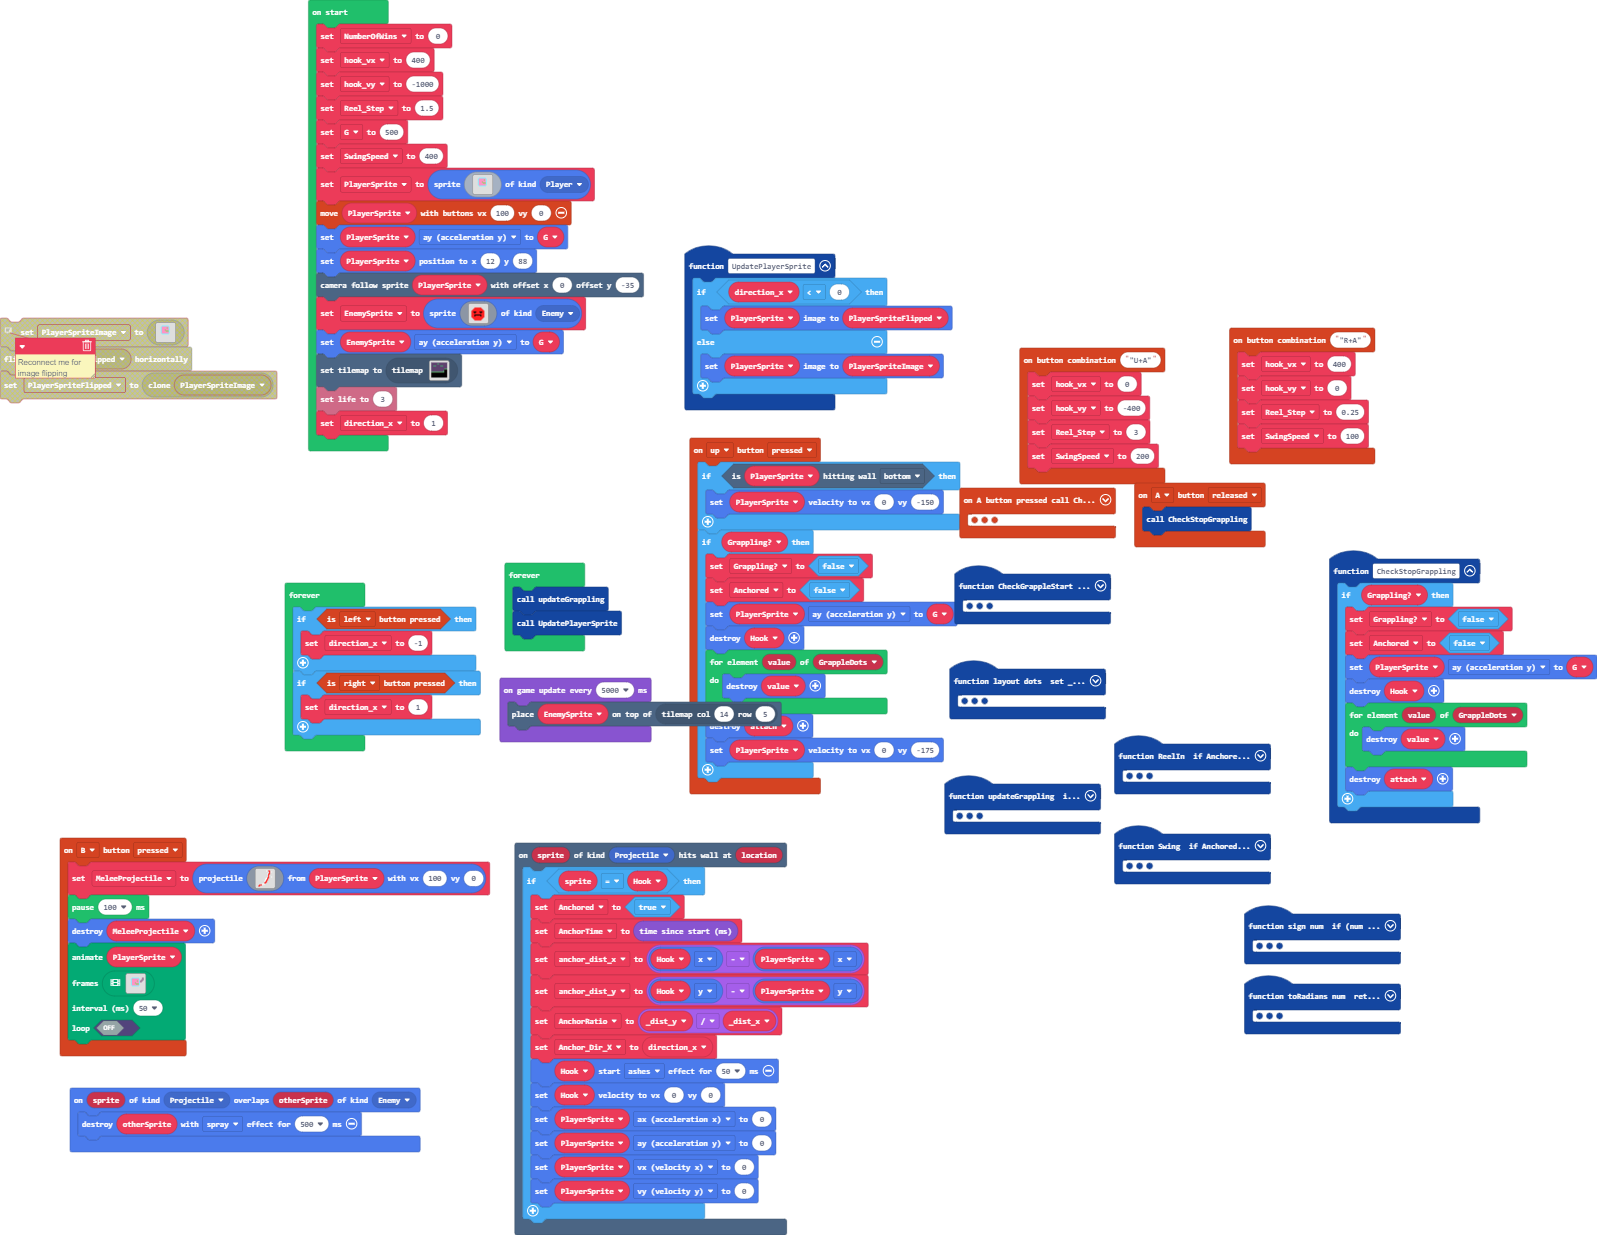
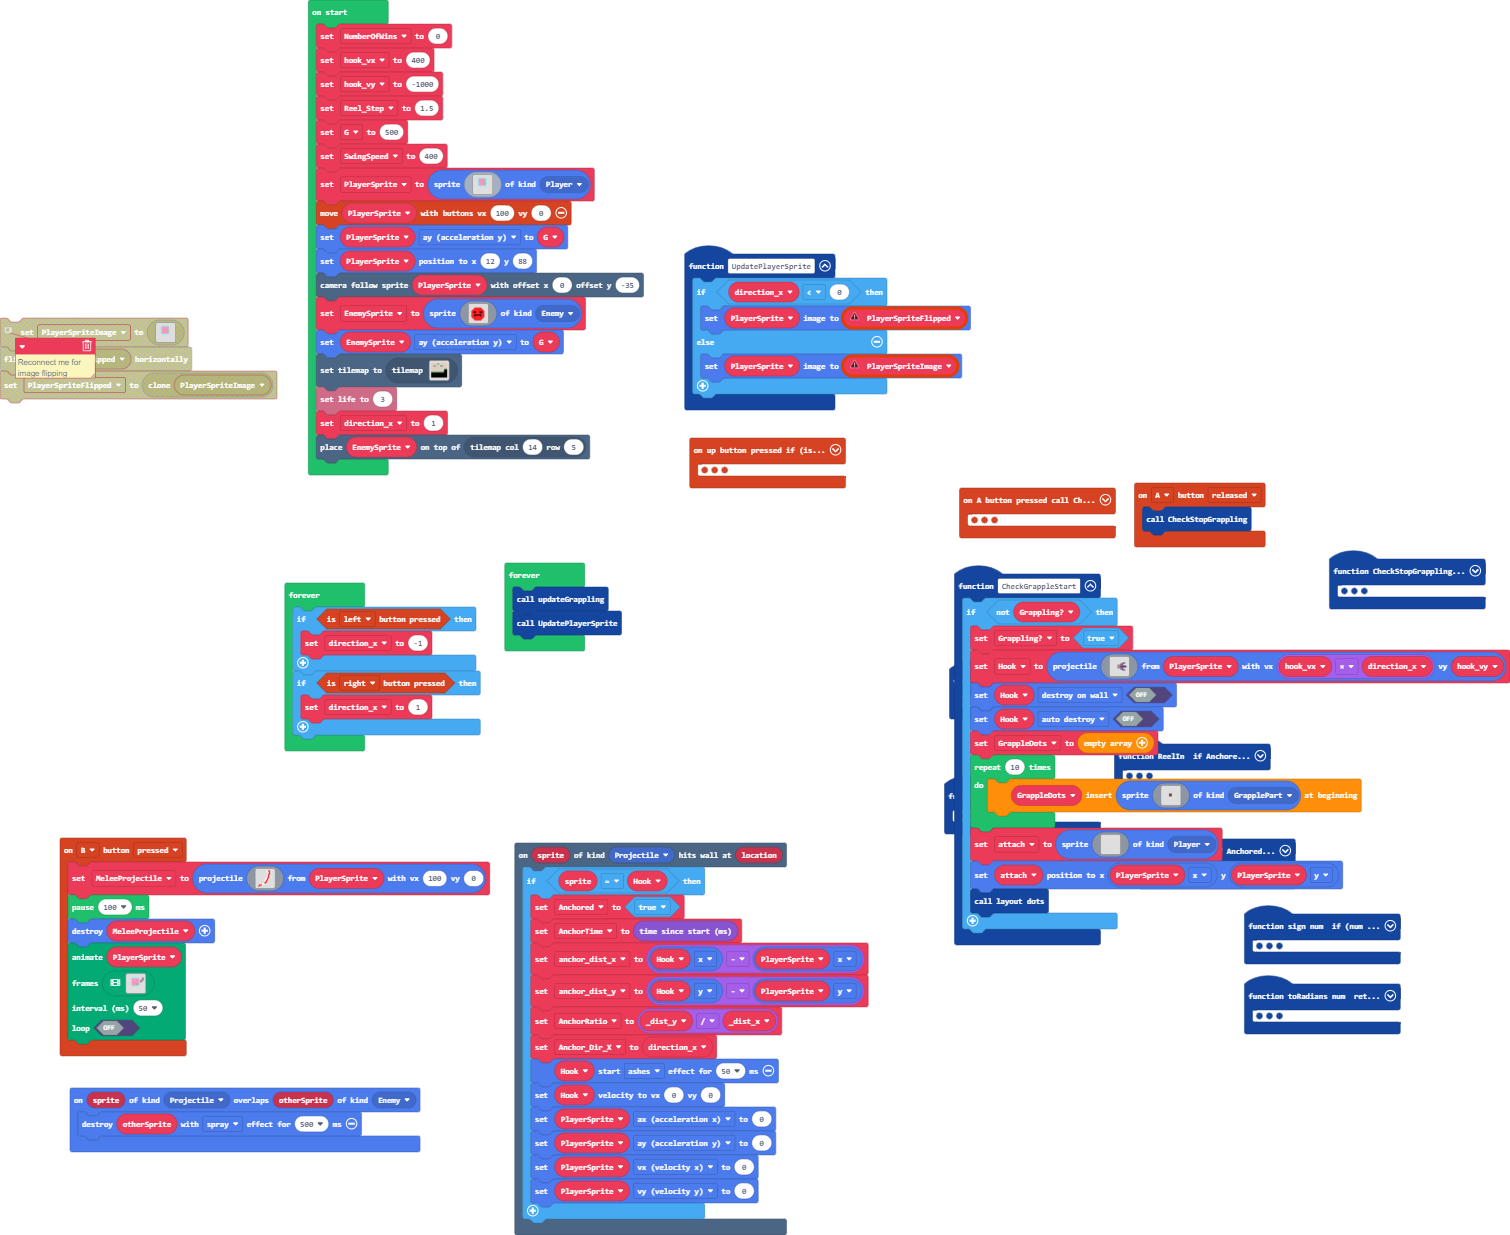
Update main.blocks, main.ts, images.g.jres, images.g.ts, tilemap.g.jres, tilemap.g.ts

Changed region(s): [[0.0, 0.0, 1.0, 0.8615], [0.0311, 0.6769, 0.5914, 1.0]]

diff --git a/images.g.ts b/images.g.ts
@@ -3,111 +3,6 @@ namespace myImages {
 
     helpers._registerFactory("image", function(name: string) {
         switch(helpers.stringTrim(name)) {
-            case "image3":
-            case "myImage1":return img`
-................................................................
-................................................................
-................................................................
-...1111....1111...111111....111.................................
-....111...11111..11111111...111.................................
-....111...1111...11111111...1111................................
-....1111.1111.....111.......11.11...............................
-....111111111.....111111....11.11...............................
-....11111111......111111...111..11..............................
-....1111111.......111111...11...111.............................
-....1111.111......1111.....11...1.1.............................
-....1111.1111.....1111111..11....111............................
-....1111..1111....1111111..1.....1.1............................
-....1111...1111...1111111111....11111...........................
-................................................................
-................................................................
-`;
-            case "image2":
-            case "myImage0":return img`
-................................................................
-................................................................
-................................................................
-................................................................
-......................333333333333333...........................
-...................333666666666666666333........................
-.................3366666666666666666666633......................
-...............33666666666666666666666666633....................
-.............336666666666666666666666666666633..................
-............36666666666666666666666666666666663.................
-...........3666666666666666666666666666666666663................
-.........33666666666666666666999999999999966666633..............
-........3666666666666669999996666666666666666666663.............
-........3666669999999996666666666666666666666666663.............
-.......366669966666666666666666666666666666666666663............
-......36666666666666666666666666666666666666666666663...........
-.....3666666666666666666666666666666666666666999999963..........
-.....3666666666666666666666666666666666669999666666663..........
-....366666666666666666666666666666666699966666666666663.........
-....366666666666666666666666666669999966666666666666663.........
-...36666666666666666666666999999966666666666666666666663........
-...36666666666666999999999666666666666666666666666666663........
-..3666666666669996666666666666666666666666666666999966663.......
-..3666666666666666666666666666666666666666699999666666663.......
-..3666666666666666666666666666666666666999966666666666663.......
-.366666666666666666666666666666666699996666666666666666663......
-.366666666666666666666666666699999966666666666666666666663......
-.366666666666666666666999999966666666666666666666666666663......
-.366666666666669999999666666666666666666666666666669996663......
-.366666666699996666666666666666666666666666666699996666663......
-.366666999966666666666666666666666666666669999966666666663......
-.366666666666666666666666666666666669999996666666666666663......
-.366666666666666666666666666666699996666666666666666666663......
-.366666666666666666666666666999966666666666666666666666663......
-.366666666666666666666669999666666666699999999666666666663......
-.366666666666666666999996666666666699966666666666666666663......
-.366666666666699999666666666669999966666666666666666666663......
-.366666666999966666666666999996666666666666666666666666663......
-.366666666666666666666699666666666666666666699996666666663......
-.366666666666666666999966666666666666666699966666666666663......
-..3666666666666999966666666666666666699996666666666666663.......
-..3666666666699666666666666666666999966666666666666666663.......
-..3666666666966666666666666666999666666666666666666666663.......
-...36666666666666666666666999966666666666666666666666663........
-...36666666666666666666999666666666666666666666666666663........
-....366666666666666699966666666666666666666666699966663.........
-....366666666666999966666666666666666666666699966666663.........
-.....3666666999966666666666666666666666699996666666663..........
-.....3666699666666666666666666666669999966666666666663..........
-......36666666666666666666666669999666666666666666663...........
-.......366666666666666666666699666666666666666666663............
-........3666666666666666699996666666666666999666663.............
-........3666666666669999966666666666666999666666663.............
-.........33666666669666666666666666999966666666633..............
-...........3666666666666666666699996666666666663................
-............36666666666666669996666666666666663.................
-.............336666666666699666666666666666633..................
-...............33666666666666666666666666633....................
-.................3366666666666666666666633......................
-...................333666666666666666333........................
-......................333333333333333...........................
-................................................................
-................................................................
-................................................................
-`;
-            case "mIOn!OfTMYT0d-TW`V?j":
-            case "Bullet":return img`
-. . . . . . . . . . . . . . . . 
-. . . . . . . . . . . . . . . . 
-. . . . . . . . . . . . . . . . 
-. . . . . . . . . . . . . . . . 
-. . . . . . . . . . . c c c . . 
-. . . . . . . . . c c c . . . . 
-. . . . . . b b b b b b . . . . 
-. . . . . . b b b c c c c c c . 
-. . . . . . b b b c c c c c c . 
-. . . . . . b b b b b b . . . . 
-. . . . . . . . . c c c . . . . 
-. . . . . . . . . . . c c c . . 
-. . . . . . . . . . . . . . . . 
-. . . . . . . . . . . . . . . . 
-. . . . . . . . . . . . . . . . 
-. . . . . . . . . . . . . . . . 
-`;
             case "0[Nqy)gv[`vLs#+a6)DA":
             case "PlayerCharacter":return img`
 . . . . . . . . . . . . . . . . 
@@ -163,21 +58,78 @@ namespace myImages {
 . . . 2 2 2 2 2 2 2 2 2 . . . . 
 . . . . 2 2 2 2 2 2 2 . . . . . 
 `;
-            case "image5":
-            case "myImage":return img`
+            case "){P:#`Smtgi5IlU]`09u":
+            case "GrappleRopeBit":return img`
 . . . . . . . . . . . . . . . . 
 . . . . . . . . . . . . . . . . 
 . . . . . . . . . . . . . . . . 
 . . . . . . . . . . . . . . . . 
-. . . . 3 3 3 3 3 3 3 . . . . . 
-. . . . 3 3 3 3 3 3 3 . . . . . 
-. . . . 3 3 3 3 3 3 3 . . . . . 
-. . . . . 3 3 3 3 3 . . . . . . 
-. . . . . 3 3 3 3 3 . . . . . . 
-. . . . . . 3 3 3 . . . . . . . 
-. . . . . . 3 3 3 . . . . . . . 
-. . . . . . 3 3 3 . . . . . . . 
-. . . . . . . 3 . . . . . . . . 
+. . . . . . . . . . . . . . . . 
+. . . . . . . . . . . . . . . . 
+. . . . . . e e e . . . . . . . 
+. . . . . . e e e . . . . . . . 
+. . . . . . e e e . . . . . . . 
+. . . . . . . . . . . . . . . . 
+. . . . . . . . . . . . . . . . 
+. . . . . . . . . . . . . . . . 
+. . . . . . . . . . . . . . . . 
+. . . . . . . . . . . . . . . . 
+. . . . . . . . . . . . . . . . 
+. . . . . . . . . . . . . . . . 
+`;
+            case "image2":
+            case "HookVertical":return img`
+. . . . . . . . . . . . . . . . 
+. . . . . . . . . . . . . . . . 
+. . . . . . . . . . . . . . . . 
+. . . . . . . . . . . . . . . . 
+. . . . c . . c c . . c . . . . 
+. . . . c . . c c . . c . . . . 
+. . . . c . . c c . . c . . . . 
+. . . . c c b c c b c c . . . . 
+. . . . . c b c c b c . . . . . 
+. . . . . c b c c b c . . . . . 
+. . . . . . b b b b . . . . . . 
+. . . . . . b b b b . . . . . . 
+. . . . . . . . . . . . . . . . 
+. . . . . . . . . . . . . . . . 
+. . . . . . . . . . . . . . . . 
+. . . . . . . . . . . . . . . . 
+`;
+            case "mIOn!OfTMYT0d-TW`V?j":
+            case "HookRight":return img`
+. . . . . . . . . . . . . . . . 
+. . . . . . . . . . . . . . . . 
+. . . . . . . . . . . . . . . . 
+. . . . . . . . . . . . . . . . 
+. . . . . . . . . . . c c c . . 
+. . . . . . . . . c c c . . . . 
+. . . . . . b b b b b b . . . . 
+. . . . . . b b b c c c c c c . 
+. . . . . . b b b c c c c c c . 
+. . . . . . b b b b b b . . . . 
+. . . . . . . . . c c c . . . . 
+. . . . . . . . . . . c c c . . 
+. . . . . . . . . . . . . . . . 
+. . . . . . . . . . . . . . . . 
+. . . . . . . . . . . . . . . . 
+. . . . . . . . . . . . . . . . 
+`;
+            case "image3":
+            case "HookLeft":return img`
+. . . . . . . . . . . . . . . . 
+. . . . . . . . . . . . . . . . 
+. . . . . . . . . . . . . . . . 
+. . . . . . . . . . . . . . . . 
+. . . . . . . . . . . . . . . . 
+. . . c c c c . . . . . . . . . 
+. . . . . . c c c . . . . . . . 
+. . . . . . b b b b b b . . . . 
+. . . c c c c c c b b b . . . . 
+. . . c c c c c c b b b . . . . 
+. . . . . . b b b b b b . . . . 
+. . . . . . c c c . . . . . . . 
+. . . c c c c . . . . . . . . . 
 . . . . . . . . . . . . . . . . 
 . . . . . . . . . . . . . . . . 
 . . . . . . . . . . . . . . . . 

diff --git a/main.ts b/main.ts
@@ -8,22 +8,6 @@ function ReelIn () {
         PlayerSprite.y = PlayerSprite.y - _step_y
     }
 }
-controller.up.onEvent(ControllerButtonEvent.Pressed, function () {
-    if (PlayerSprite.isHittingTile(CollisionDirection.Bottom)) {
-        PlayerSprite.setVelocity(0, -150)
-    }
-    if (Grappling) {
-        Grappling = false
-        Anchored = false
-        PlayerSprite.ay = G
-        sprites.destroy(Hook)
-        for (let value of GrappleDots) {
-            sprites.destroy(value)
-        }
-        sprites.destroy(attach)
-        PlayerSprite.setVelocity(0, -175)
-    }
-})
 controller.B.onEvent(ControllerButtonEvent.Pressed, function () {
     MeleeProjectile = sprites.createProjectileFromSprite(assets.image`AttackArc`, PlayerSprite, 100, 0)
     pause(100)
@@ -64,12 +48,6 @@ function Swing () {
 function toRadians (num: number) {
     return num * 3.1415926535 / 180
 }
-controller.combos.attachCombo("\"U+A\"", function () {
-    hook_vx = 0
-    hook_vy = -400
-    Reel_Step = 3
-    SwingSpeed = 200
-})
 controller.A.onEvent(ControllerButtonEvent.Released, function () {
     CheckStopGrappling()
 })
@@ -105,6 +83,22 @@ function CheckStopGrappling () {
         sprites.destroy(attach)
     }
 }
+controller.up.onEvent(ControllerButtonEvent.Pressed, function () {
+    if (PlayerSprite.isHittingTile(CollisionDirection.Bottom)) {
+        PlayerSprite.setVelocity(0, -150)
+    }
+    if (Grappling) {
+        Grappling = false
+        Anchored = false
+        PlayerSprite.ay = G
+        sprites.destroy(Hook)
+        for (let value of GrappleDots) {
+            sprites.destroy(value)
+        }
+        sprites.destroy(attach)
+        PlayerSprite.setVelocity(0, -175)
+    }
+})
 scene.onHitWall(SpriteKind.Projectile, function (sprite, location) {
     if (sprite == Hook) {
         Anchored = true
@@ -124,29 +118,12 @@ scene.onHitWall(SpriteKind.Projectile, function (sprite, location) {
 function CheckGrappleStart () {
     if (!(Grappling)) {
         Grappling = true
-        Hook = sprites.createProjectileFromSprite(assets.image`Bullet`, PlayerSprite, hook_vx * direction_x, hook_vy)
+        Hook = sprites.createProjectileFromSprite(assets.image`HookRight`, PlayerSprite, hook_vx * direction_x, hook_vy)
         Hook.setFlag(SpriteFlag.DestroyOnWall, false)
         Hook.setFlag(SpriteFlag.AutoDestroy, false)
         GrappleDots = []
         for (let index = 0; index < 10; index++) {
-            GrappleDots.unshift(sprites.create(img`
-                . . . . . . . . . . . . . . . . 
-                . . . . . . . . . . . . . . . . 
-                . . . . . . . . . . . . . . . . 
-                . . . . . . . . . . . . . . . . 
-                . . . . . . . . . . . . . . . . 
-                . . . . . . . . . . . . . . . . 
-                . . . . . . 1 1 1 . . . . . . . 
-                . . . . . . 1 1 1 . . . . . . . 
-                . . . . . . 1 1 1 . . . . . . . 
-                . . . . . . . . . . . . . . . . 
-                . . . . . . . . . . . . . . . . 
-                . . . . . . . . . . . . . . . . 
-                . . . . . . . . . . . . . . . . 
-                . . . . . . . . . . . . . . . . 
-                . . . . . . . . . . . . . . . . 
-                . . . . . . . . . . . . . . . . 
-                `, SpriteKind.GrapplePart))
+            GrappleDots.unshift(sprites.create(assets.image`GrappleRopeBit`, SpriteKind.GrapplePart))
         }
         attach = sprites.create(img`
             . . . . . . . . . . . . . . . . 
@@ -189,16 +166,13 @@ function UpdatePlayerSprite () {
 sprites.onOverlap(SpriteKind.Projectile, SpriteKind.Enemy, function (sprite, otherSprite) {
     sprites.destroy(otherSprite, effects.spray, 500)
 })
-controller.combos.attachCombo("\"R+A\"", function () {
-    hook_vx = 400
-    hook_vy = 0
-    Reel_Step = 0.25
-    SwingSpeed = 100
-})
 let Anchor_Dir_X = 0
 let AnchorRatio = 0
+let attach: Sprite = null
+let Grappling = false
 let _dot_y = 0
 let _dot_x = 0
+let GrappleDots: Sprite[] = []
 let _step_x = 0
 let _prev_x = 0
 let anchor_dist_y = 0
@@ -210,9 +184,6 @@ let AnchorTime = 0
 let _t = 0
 let hasStarted = false
 let MeleeProjectile: Sprite = null
-let attach: Sprite = null
-let GrappleDots: Sprite[] = []
-let Grappling = false
 let _step_y = 0
 let Hook: Sprite = null
 let _dist_y = 0
@@ -240,9 +211,7 @@ EnemySprite.ay = G
 tiles.setCurrentTilemap(tilemap`level2`)
 info.setLife(3)
 direction_x = 1
-game.onUpdateInterval(5000, function () {
-    tiles.placeOnTile(EnemySprite, tiles.getTileLocation(14, 5))
-})
+tiles.placeOnTile(EnemySprite, tiles.getTileLocation(14, 5))
 forever(function () {
     updateGrappling()
     UpdatePlayerSprite()

diff --git a/tilemap.g.ts b/tilemap.g.ts
@@ -25,7 +25,7 @@ namespace myTiles {
 . . . . . . . . . . . . . . . . 
 `, [myTiles.transparency16], TileScale.Sixteen);
             case "level2":
[2 lines of base64/hex data omitted]
 . . . . . . . . . . . . . . . . 
 . . . . . . 2 2 . . . . . . . . 
 . . . . . . . . . . . . . . . . 
@@ -42,7 +42,7 @@ namespace myTiles {
 . . . . . . . . . . . . . . . . 
 . . . . . . . . . . . . . . . . 
 . . . . . . . . . . . . . . . . 
-`, [myTiles.transparency16,sprites.dungeon.darkGroundEast,sprites.dungeon.darkGroundWest,sprites.dungeon.darkGroundCenter,sprites.builtin.forestTiles1,sprites.builtin.forestTiles2,sprites.builtin.forestTiles5,sprites.builtin.forestTiles6,sprites.builtin.forestTiles7,sprites.builtin.forestTiles13,sprites.builtin.forestTiles15,sprites.builtin.forestTiles9,sprites.builtin.forestTiles11,sprites.builtin.forestTiles10,sprites.dungeon.darkGroundNorthEast0,sprites.dungeon.darkGroundNorthWest0,sprites.dungeon.darkGroundNorth,sprites.builtin.forestTiles21,sprites.builtin.forestTiles22,sprites.builtin.forestTiles23,sprites.builtin.forestTiles0], TileScale.Sixteen);
+`, [myTiles.transparency16,sprites.builtin.forestTiles1,sprites.builtin.forestTiles2,sprites.builtin.forestTiles5,sprites.builtin.forestTiles6,sprites.builtin.forestTiles7,sprites.builtin.forestTiles13,sprites.builtin.forestTiles15,sprites.builtin.forestTiles9,sprites.builtin.forestTiles11,sprites.builtin.forestTiles10,sprites.builtin.forestTiles21,sprites.builtin.forestTiles22,sprites.builtin.forestTiles23,sprites.builtin.forestTiles0,sprites.castle.tilePath5], TileScale.Sixteen);
         }
         return null;
     })
